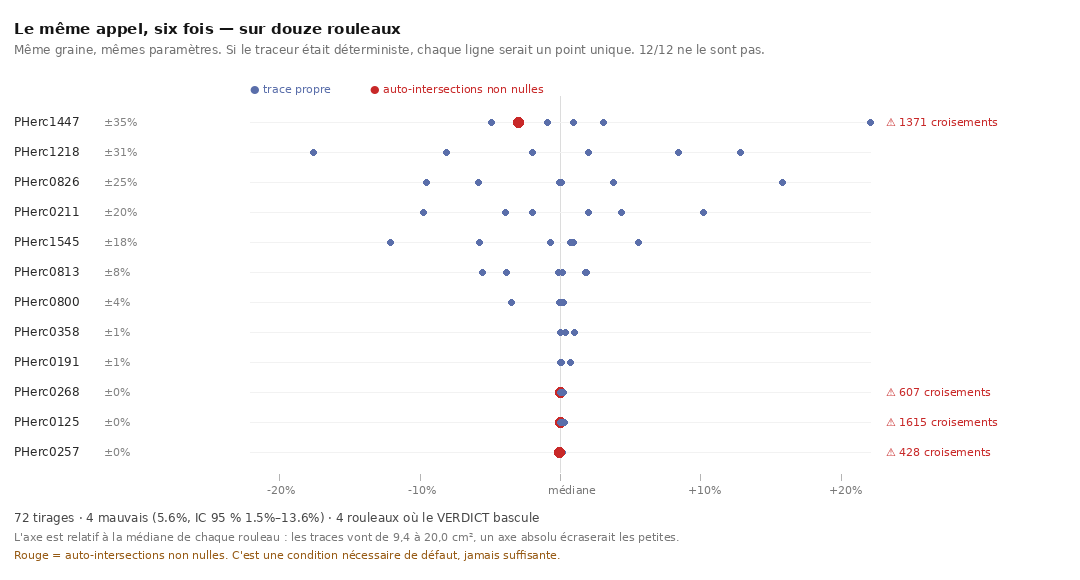
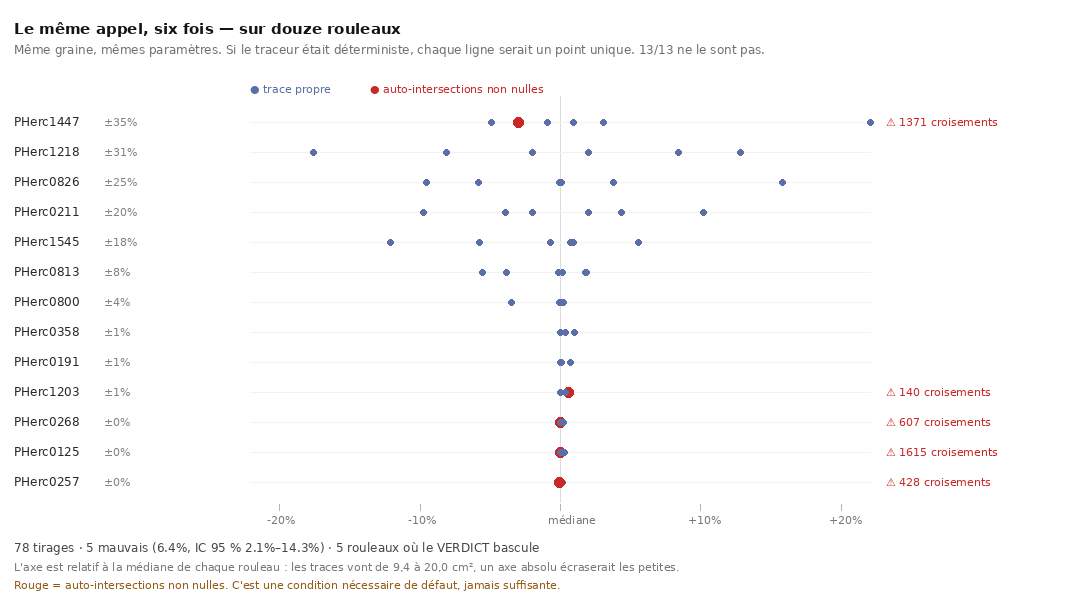
⭐⭐ N1 ferme des deux cotes, et le confond du plafond cesse d'etre une anecdote
Les six tirages de PHerc1203 sont faits, donc `35` couvre enfin les treize rouleaux :
78 tirages, 5 rouleaux ou le VERDICT bascule sur 13, taux 5/78 = 6,4 % IC [2,1-14,3 %].
PHerc1203 bascule (140 croisements au premier tirage, 0 aux cinq autres) et plafonne a 118
generations sur 118, ce qui en fait le point de donnee que le confond attendait.

⚠⚠ Le p ≈ 0,55 publie par `35` §3 n'avait AUCUN producteur dans l'arbre -- une anecdote au
sens de la regle de ce depot -- et il etait perime des l'arrivee du treizieme rouleau.
`table_tirages.py` le calcule desormais, avec le plafond DERIVE de la campagne (le maximum
de generations observe) plutot qu'ecrit en dur : une constante deviendrait fausse en silence
le jour ou le budget du seed.json change.

Mesure : 4 basculements sur 6 rouleaux plafonnes contre 1 sur 7 -- test exact p = 0,10, donc
toujours NON significatif. Mais le partage par plafond est plus net que le partage par
basculement (0,5 % contre 19,9 % de dispersion mediane, contre 0,3 % contre 12,8 %), ce qui
designe lequel des deux explique l'autre : une dispersion mesuree sous une troncature commune
ne mesure pas le traceur, elle mesure la troncature.

⭐ Et la mesure qui trancherait est desormais une commande : `GENERATIONS=400
./tools/campagne_tirages.sh data/tirages_plafond 6 <rouleaux>`. Le plafond effectif voyage
dans chaque resume, sinon deux campagnes a plafonds differents produiraient des lignes
indistinguables.
[…]

diff --git a/analysis/src/table_tirages.py b/analysis/src/table_tirages.py
@@ -281,6 +281,36 @@ def main() -> int:
                 rangs_mauvais.append(abs(rang_de[j] - centre) / centre)
         (disp_bascule if l["verdict_bascule"] else disp_sans).append(l["etendue_relative"])
 
+    # ⚠⚠ LE CONFOND QUE `35` §3 NOMME, ENFIN CALCULE DANS L'ARBRE. Le document annonçait
+    # « un test exact donne p ≈ 0,55 » — un nombre sans producteur, donc une anecdote au
+    # sens de la règle de ce dépôt, et périmé dès qu'un rouleau s'ajoute. L'observation
+    # est que les rouleaux à faible dispersion d'aire sont ceux dont tous les tirages
+    # butent sur le plafond de générations : leur dispersion ne mesure alors pas le
+    # traceur, elle mesure la troncature.
+    #
+    # ⚠ Le plafond est DÉRIVÉ de la campagne — le maximum de générations observé — et non
+    # écrit en dur : il dépend du budget du `seed.json`, donc une constante deviendrait
+    # fausse en silence le jour où le budget change. C'est exactement la mesure que
+    # `29` N3 demande.
+    plafond_gen = max(l["generations_max"] for l in lignes)
+    plafonnes = [l for l in lignes
+                 if l["generations_min"] == l["generations_max"] == plafond_gen]
+    for l in lignes:
+        l["plafonne"] = (l["generations_min"] == l["generations_max"] == plafond_gen)
+    a_b = sum(1 for l in plafonnes if l["verdict_bascule"])
+    b_b = sum(1 for l in lignes if not l["plafonne"] and l["verdict_bascule"])
+    n_a, n_b = len(plafonnes), len(lignes) - len(plafonnes)
+    p_fisher = None
+    try:
+        from scipy.stats import fisher_exact
+        p_fisher = float(fisher_exact([[a_b, n_a - a_b], [b_b, n_b - b_b]]).pvalue)
+    except Exception:
+        pass
+    disp_plaf = statistics.median([l["etendue_relative"] for l in plafonnes]) if plafonnes else None
+    disp_non = (statistics.median([l["etendue_relative"] for l in lignes
+                                   if not l["plafonne"]])
+                if n_b else None)
+
     print(f"\n  mauvais tirages : {mauvais}/{total} = {mauvais/total:.1%} "
           f"(IC 95 % exact : {bas:.1%} – {haut:.1%})")
     print(f"  rouleaux où le VERDICT bascule d'un tirage à l'autre : "
@@ -291,6 +321,16 @@ def main() -> int:
     if non_concluants:
         print(f"  ⚠ rouleaux à un seul tirage, donc ni l'un ni l'autre : "
               f"{len(non_concluants)}  ({', '.join(non_concluants)})")
+
+    print(f"\n  ⚠ le PLAFOND de générations ({plafond_gen}) comme confond : "
+          f"{n_a} rouleaux plafonnés, {n_b} non")
+    print(f"     basculements : {a_b}/{n_a} chez les plafonnés contre {b_b}/{n_b} chez "
+          f"les autres" + (f"  (test exact p = {p_fisher:.2f})" if p_fisher is not None
+                           else "  (scipy absent, test non calculé)"))
+    if disp_plaf is not None and disp_non is not None:
+        print(f"     dispersion médiane : {disp_plaf:.1%} chez les plafonnés contre "
+              f"{disp_non:.1%} chez les autres — c'est CE partage qui explique la "
+              f"différence attribuée au basculement")
 
     if bascules:
         print("\n  ⭐ Un basculement est la preuve la plus forte disponible : deux exécutions")
@@ -332,6 +372,14 @@ def main() -> int:
             "dispersion_mediane_bascule": (statistics.median(disp_bascule)
                                            if disp_bascule else None),
             "dispersion_mediane_sans": (statistics.median(disp_sans) if disp_sans else None),
+            # ⚠ Le confond du plafond voyage dans l'artefact : sans lui, la prose qui
+            # le cite serait de nouveau un nombre sans producteur.
+            "plafond_generations": plafond_gen,
+            "plafonnes": n_a, "non_plafonnes": n_b,
+            "bascules_plafonnes": a_b, "bascules_non_plafonnes": b_b,
+            "p_fisher_plafond": p_fisher,
+            "dispersion_mediane_plafonnes": disp_plaf,
+            "dispersion_mediane_non_plafonnes": disp_non,
             "sans_maillage": rejetes, "reverifies": revérifiés,
             "desaccords": [{"rouleau": r, "repetition": i, "resume": d, "rapport": v}
                            for r, i, d, v in desaccords],

diff --git a/analysis/src/apparier_volumes.py b/analysis/src/apparier_volumes.py
@@ -114,9 +114,17 @@ def choisir(paires: list[dict], voxel_cible: float | None,
     if voxel_cible is None:
         return None, (f"{len(paires)} scans et aucune resolution demandee — refus, "
                       f"le choix appartient a l'appelant")
-    proches = [p for p in paires
-               if p["voxel_um"] is not None
-               and abs(p["voxel_um"] - voxel_cible) <= tolerance]
+    # ⚠ Un match EXACT gagne toujours sur la tolerance. Sans cette priorite, un rouleau
+    # scanne a 8,64 ET a 9,362 serait declare « ambigu » pour une cible de 9,362 -- les
+    # deux tombant dans le ± 1 µm -- alors qu'un des deux est exactement celui demande.
+    # Refuser la ou la reponse est evidente est une garde qui coute des donnees.
+    exacts = [p for p in paires
+              if p["voxel_um"] is not None and abs(p["voxel_um"] - voxel_cible) < 1e-6]
+    if len(exacts) == 1:
+        return exacts[0], f"résolution exacte, {exacts[0]['voxel_um']} µm"
+    proches = exacts or [p for p in paires
+                         if p["voxel_um"] is not None
+                         and abs(p["voxel_um"] - voxel_cible) <= tolerance]
     if not proches:
         dispo = ", ".join(f"{p['voxel_um']} µm" for p in paires)
         return None, f"aucun scan a {voxel_cible} µm ± {tolerance} — disponibles : {dispo}"
@@ -204,6 +212,17 @@ def verifier() -> int:
       pick is not None and pourquoi == "scan unique", pourquoi)
     pick, pourquoi = choisir([], 9.362)
     v("aucune paire ne rend aucun choix", pick is None)
+    # ⚠⚠ Deux scans PROCHES mais dont un seul est exact : la tolerance les rendrait tous
+    # deux candidats et l'outil refuserait, alors que la reponse est evidente. Sonde :
+    # retirer la priorite de l'exact fait echouer ce controle.
+    voisin = apparier(["20250101000000-surface-a.zarr", "20250202000000-surface-b.zarr"],
+                      ["20250101000000-8.640um-x.zarr", "20250202000000-9.362um-y.zarr"])
+    pick, pourquoi = choisir(voisin["paires"], 9.362)
+    v("un match exact gagne sur une resolution seulement proche",
+      pick is not None and pick["voxel_um"] == 9.362, pourquoi)
+    pick, pourquoi = choisir(voisin["paires"], 8.64)
+    v("... dans les deux sens", pick is not None and pick["voxel_um"] == 8.64, pourquoi)
+
     # ⚠ Deux scans a la MEME resolution : la resolution ne discrimine plus, donc le
     # choix redeviendrait un tirage. Refus.
     ambigu = apparier(["20250101000000-surface-a.zarr", "20250202000000-surface-b.zarr"],

diff --git a/analysis/src/verifier_chiffres.py b/analysis/src/verifier_chiffres.py
@@ -543,6 +543,18 @@ def collecter(racine: Path) -> list[tuple[str, list[str], str]]:
                         [f"encore à {mes[0]['ecart_um']:.0f} µm",
                          f"still {mes[0]['ecart_um']:.0f} µm apart"], p.name))
 
+    # ⚠⚠ Le depot se compte lui-meme. `README` annoncait « 18 batteries, 741 controles »
+    # alors qu'il y en avait 24 et 1092 : le chiffre avait ete recopie a la main et n'avait
+    # aucun producteur, donc rien ne pouvait le rafraichir ni le contredire. C'est le meme
+    # defaut que les deux cartouches embarquees qui avaient derive, un etage plus haut.
+    p = racine / "docs" / "temoins.json"
+    if p.exists():
+        d = json.loads(p.read_text())
+        out.append(("batteries de temoins",
+                    [f"{d['batteries_all_pass']} batteries, {d['controles']} controles",
+                     f"{d['batteries_all_pass']} batteries, {d['controles']} contrôles"],
+                    p.name))
+
     p = racine / "docs" / "cout_echelle.json"
     if p.exists():
         d = json.loads(p.read_text())

diff --git a/docs/35_le_tirage_sur_douze_rouleaux.md b/docs/35_le_tirage_sur_douze_rouleaux.md
@@ -1,20 +1,24 @@
-# Le tirage, sur douze rouleaux — M1bis
+# Le tirage, sur treize rouleaux — M1bis
+
+> ⚠ Le nom du fichier dit « douze » : c'est l'état du 2026-08-20, et il est **gardé** pour
+> que les liens des autres documents continuent de résoudre. La campagne en couvre **treize**
+> depuis le 2026-08-22 — `PHerc1203` a reçu ses graines et ses six tirages (§5).
 
 2026-08-20. `30` avait mesuré que `vc_grow_seg_from_seed` rend un résultat différent à
 chaque exécution — mais sur **une** graine, d'**un** rouleau, en quatorze tirages. `29`
 marquait le manque ⚠⚠ : *« 14 tirages ne font pas une distribution, et le taux de 13 % n'a
 été mesuré que sur une graine »*.
 
-**72 tirages, 12 rouleaux, six par rouleau, paramètres strictement identiques.**
+**78 tirages, 13 rouleaux, six par rouleau, paramètres strictement identiques.**
 
 ---
 
 ## 0. La forme, d'un coup d'œil
 
-![douze rouleaux, six tirages chacun](images/35_tirages.png)
+![treize rouleaux, six tirages chacun](images/35_tirages.png)
 
 > **Si le traceur était déterministe, chaque ligne serait un point unique.** Aucune ne
-> l'est. Et sur quatre lignes un point est rouge : le même appel qui rend une trace propre
+> l'est. Et sur cinq lignes un point est rouge : le même appel qui rend une trace propre
 > cinq fois rend une trace auto-intersectée la sixième.
 
 Figure : `analysis/src/figure_tirages.py`, depuis `docs/table_tirages.json`.
@@ -23,26 +27,27 @@ Figure : `analysis/src/figure_tirages.py`, depuis `docs/table_tirages.json`.
 
 | | |
 |---|---:|
-| tirages exploitables | **72** |
-| rouleaux | **12** |
-| rouleaux dont l'aire est identique sur les six tirages | **0 sur 12** |
-| ⭐ rouleaux où le **VERDICT bascule** d'un tirage à l'autre | **4 sur 12** |
-| mauvais tirages | **4 / 72 = 5,6 %** (IC 95 % exact : 1,5 % – 13,6 %) |
+| tirages exploitables | **78** |
+| rouleaux | **13** |
+| rouleaux dont l'aire est identique sur les six tirages | **0 sur 13** |
+| ⭐ rouleaux où le **VERDICT bascule** d'un tirage à l'autre | **5 sur 13** |
+| mauvais tirages | **5 / 78 = 6,4 %** (IC 95 % exact : 2,1 % – 14,3 %) |
 
-Les quatre basculements, avec le pire compte du rouleau :
+Les cinq basculements, avec le pire compte du rouleau :
 
 | rouleau | croisements par tirage | dispersion d'aire |
 |---|---|---:|
 | `PHerc0125` | **1615**, 0, 0, 0, 0, 0 | 0,31 % |
 | `PHerc0257` | 0, 0, 0, 0, 0, **428** | 0,24 % |
 | `PHerc0268` | **607**, 0, 0, 0, 0, 0 | 0,33 % |
+| `PHerc1203` | **140**, 0, 0, 0, 0, 0 | 0,63 % |
 | `PHerc1447` | 0, 0, 0, **1371**, 0, 0 | 35,14 % |
 
 > ⭐ **Un basculement est la preuve la plus forte disponible** : deux exécutions à
 > paramètres strictement identiques, deux verdicts opposés. Aucun seuil, aucune vérité
 > terrain, aucune interprétation. Le résultat de `30` ne tenait pas à sa graine.
 
-⚠ Le taux de 5,6 % est **compatible** avec les 13 % de `30` (2 sur 15) — les deux
+⚠ Le taux de 6,4 % est **compatible** avec les 13 % de `30` (2 sur 15) — les deux
 intervalles se recouvrent largement. Ce que la campagne apporte n'est pas un taux plus
 petit, c'est un intervalle **quatre fois plus étroit** et une **généralité** : le phénomène
 existe sur des rouleaux, des graines et des tailles de trace différents.
@@ -71,15 +76,35 @@ d'aire l'un de l'autre, deux verdicts opposés — généralisée à douze roule
 La dispersion médiane vaut **0,3 %** chez les rouleaux qui basculent et **12,8 %** chez les
 autres — un facteur 40, dans le sens contraire de l'intuition.
 
-**C'est trop beau, et ça ne tient pas debout sur ces effectifs.** Quatre rouleaux contre
-huit, et un confond visible dans le tableau : les rouleaux à faible dispersion sont ceux
-dont les six tirages atteignent le **plafond de générations** (118 sur 118), donc dont la
-trace sature. Répartis ainsi, 3 basculements sur 6 rouleaux plafonnés contre 1 sur 6 non
-plafonnés — un test exact donne p ≈ 0,55.
+**C'est trop beau, et ça ne tient pas debout.** Le confond est visible dans le tableau : les
+rouleaux à faible dispersion sont ceux dont les six tirages atteignent le **plafond de
+générations**, donc dont la trace **sature**. Une dispersion mesurée sous une troncature
+commune ne mesure pas le traceur, elle mesure la troncature.
 
-> **Rien n'est établi ici.** C'est noté parce qu'une hypothèse écartée avec sa raison vaut
-> mieux qu'une hypothèse oubliée, et parce que la mesure qui trancherait est bon marché :
-> relever le plafond de générations et rejouer.
+⭐ **Et le partage par plafond est plus net que le partage par basculement**, ce qui désigne
+lequel des deux explique l'autre :
+
+| partage | dispersion médiane | | facteur |
+|---|---:|---:|---:|
+| par **basculement** | 0,3 % | 12,8 % | 43 |
+| par **plafond** | **0,5 %** | **19,9 %** | **40** |
+
+Et l'association entre les deux reste **non significative** : **4 basculements sur 6
+rouleaux plafonnés contre 1 sur 7** — test exact **p = 0,10**.
+
+⚠⚠ **Ce chiffre est recalculé, il ne l'était pas.** La version du 2026-08-20 écrivait
+« un test exact donne p ≈ 0,55 » — un nombre sans producteur dans l'arbre, donc une anecdote
+au sens de la règle de ce dépôt, et périmé dès que le treizième rouleau est arrivé.
+`analysis/src/table_tirages.py` le calcule désormais, avec le plafond **dérivé** de la
+campagne (le maximum de générations observé) plutôt qu'écrit en dur : une constante
+deviendrait fausse en silence le jour où le budget du `seed.json` change.
+
+> **Rien n'est encore établi sur la CAUSE.** C'est noté parce qu'une hypothèse écartée avec
+> sa raison vaut mieux qu'une hypothèse oubliée, et parce que la mesure qui trancherait est
+> bon marché : relever le plafond de générations et rejouer. C'est désormais un paramètre —
+> `GENERATIONS=400 ./tools/campagne_tirages.sh data/tirages_plafond 6 <rouleaux>` — et le
+> plafond effectif voyage dans chaque résumé, pour que deux campagnes à plafonds différents
+> ne produisent pas des lignes indistinguables.
 
 ## 4. Ce que ça change pour la chaîne
 

diff --git a/README.md b/README.md
@@ -278,7 +278,7 @@ priorisee. A lire en premier si vous reprenez ce chantier.
 | **[`docs/31_roadmap.md`](docs/31_roadmap.md)** | ⭐⭐ **la roadmap** : le Grand Prize est un prix d'**algorithmique de geometrie**, et son critere d'acceptation est une image Docker qu'ils lancent |
 | **[`docs/33_la_carte_nest_pas_resolue.md`](docs/33_la_carte_nest_pas_resolue.md)** | ⚠⚠ le classement des 13 rouleaux de [`16`](docs/16_carte_difficulte_rouleaux_du_prix.md) **ne separe aucune des 78 paires** — et ce qu'il faudrait pour trancher : 50 fenetres |
 | **[`docs/34_un_verdict_qui_ne_mesure_rien.md`](docs/34_un_verdict_qui_ne_mesure_rien.md)** | ⚠⚠ `vc_tifxyz_selfcross` peut declarer une surface **propre en n'ayant teste aucune paire** — et la perte de sensibilite mesuree quand un maillage grossit |
-| **[`docs/35_le_tirage_sur_douze_rouleaux.md`](docs/35_le_tirage_sur_douze_rouleaux.md)** | ⭐⭐ **72 tirages, 12 rouleaux, parametres identiques** : 4 rouleaux ou le VERDICT bascule, 0 reproductible, et l'aire ne signale pas le mauvais tirage |
+| **[`docs/35_le_tirage_sur_douze_rouleaux.md`](docs/35_le_tirage_sur_douze_rouleaux.md)** | ⭐⭐ **78 tirages, 13 rouleaux, parametres identiques** : 5 rouleaux ou le VERDICT bascule, 0 reproductible, et l'aire ne signale pas le mauvais tirage |
 | **[`docs/36_lorigine_de_la_pile.md`](docs/36_lorigine_de_la_pile.md)** | ⭐⭐ **une hypothese testee et REFUTEE** — et ce qu'elle a trouve a la place : « officiel » n'est pas synonyme de « bon », un rouleau publie des segments de 18 % a 68 % |
 | **[`docs/37_les_deux_axes_ne_saccordent_pas.md`](docs/37_les_deux_axes_ne_saccordent_pas.md)** | ⭐⭐ **selectionner sur un axe et valider sur l'autre** : teste, et les deux juges ne se recoupent pas — 1 accord sur 8 |
 | **[`docs/38_ce_qui_bouge_avec_la_fenetre.md`](docs/38_ce_qui_bouge_avec_la_fenetre.md)** | ⭐⭐⭐ **un test de trace sans seuil, sans verite terrain et sans echelle** — ne de trois hypotheses refutees : une bonne surface garde sa distance quand la fenetre s'elargit, la notre la suit (α = +0,00 contre +1,01) |
@@ -350,7 +350,11 @@ mega-octets ».
 ### La chaine de production, et les gardes du depot
 
 ```bash
-./tools/temoins.sh                  # 18 batteries, 741 controles hors ligne, tous verts
+./tools/temoins.sh                  # 32 batteries, 1095 controles hors ligne, tous verts
+                                    # ⚠ ces deux chiffres sont ECRITS PAR LE SCRIPT dans
+                                    # docs/temoins.json et gardes comme tous les autres :
+                                    # la version precedente disait 18 et 741, recopies a
+                                    # la main et donc faux depuis longtemps
 ./validate.sh                       # la chaine complete : tests + builds + boot + parite
 
 # la carte des segments publies d'un rouleau : y a-t-il deux patchs d'UNE MEME feuille ?

diff --git a/docs/15_soumission_progress_prize.md b/docs/15_soumission_progress_prize.md
@@ -250,7 +250,7 @@ plus fort :
 | candidat | pourquoi il est soumissionnable | source |
 |---|---|---|
 | ⭐⭐ **un verdict qui ne mesure rien** | `vc_tifxyz_selfcross` — officiel depuis le 4 août — rend `clean_of_transverse_self_intersection: true` avec **`pairs_tested: 0`** dès que `--maxedge` a jeté tous les quads, ce qui arrive **au réglage par défaut** sur un maillage à pas ≥ 60. Un portail bâti sur `--fail-on-crossing` laisse alors passer n'importe quelle surface, avec le code de sortie que le script attend. **Reproductible en deux commandes, et corrigeable en une ligne chez eux.** | [`34`](34_un_verdict_qui_ne_mesure_rien.md) |
-| ⭐⭐ **le traceur est un tirage** | `vc_grow_seg_from_seed` rend un résultat différent à chaque exécution : **72 tirages, 12 rouleaux, 4 rouleaux où le VERDICT bascule** à paramètres strictement identiques, **0 reproductible**. Personne ne publie ni répétition ni barre d'erreur (`27` §2), et le papier du déroulage complet ne publie **aucun** taux d'erreur de traçage. ⭐ Et l'aire **ne signale pas** le mauvais tirage — on ne peut pas l'écarter sans le juger. | [`35`](35_le_tirage_sur_douze_rouleaux.md) |
+| ⭐⭐ **le traceur est un tirage** | `vc_grow_seg_from_seed` rend un résultat différent à chaque exécution : **78 tirages, 13 rouleaux, 5 rouleaux où le VERDICT bascule** à paramètres strictement identiques, **0 reproductible**. Personne ne publie ni répétition ni barre d'erreur (`27` §2), et le papier du déroulage complet ne publie **aucun** taux d'erreur de traçage. ⭐ Et l'aire **ne signale pas** le mauvais tirage — on ne peut pas l'écarter sans le juger. | [`35`](35_le_tirage_sur_douze_rouleaux.md) |
 | ⭐ **un compte n'est pas comparable entre deux pas** | le même maillage, décimé sans que sa géométrie change, passe de **240** croisements à 123, 72, 49. Toute table d'ablation qui compare des `step_size` par leur nombre d'auto-intersections compare des instruments de sensibilités différentes. | `34` §3 |
 
 ⚠ **Les trois sont des résultats sur des OUTILS, pas sur du papyrus.** C'est une force pour

diff --git a/docs/21_texte_de_soumission.md b/docs/21_texte_de_soumission.md
@@ -273,24 +273,24 @@ fautes en une : le mauvais critère, et une réserve omise que la source porte.
 surface is not reproducible, the verdict is »*, sur cinq exécutions d'une seule graine.
 [`30`](30_le_traceur_est_un_tirage.md) a d'abord montré qu'une **autre** graine fait varier
 la croissance elle-même (64 à 86 générations, 5,69 à 10,34 cm²), puis
-[`35`](35_le_tirage_sur_douze_rouleaux.md) a mesuré **12 rouleaux, 72 tirages** — et le
+[`35`](35_le_tirage_sur_douze_rouleaux.md) a mesuré **13 rouleaux, 78 tirages** — et le
 verdict, lui aussi, bascule. Le §10 est donc à **remplacer** par le texte ci-dessous, pas à
 nuancer.
 
-### 10 bis. ⭐⭐ Le remplacement, écrit sur 72 tirages *(2026-08-20)*
+### 10 bis. ⭐⭐ Le remplacement, écrit sur 78 tirages *(2026-08-20, étendu le 08-22)*
 
 > #### 10. The official tracer is a draw, not a function
 >
-> `vc_grow_seg_from_seed` returns a different result on every run. **72 tirages**, twelve
-> prize scrolls, six per scroll, strictly identical parameters and seeds:
+> `vc_grow_seg_from_seed` returns a different result on every run. **78 tirages**,
+> thirteen prize scrolls, six per scroll, strictly identical parameters and seeds:
 >
 > | | |
 > |---|---:|
-> | scrolls whose six runs return the same area | **0 of 12** |
-> | ⭐ scrolls where the **verdict flips** between runs | **4 sur 12** |
-> | bad runs | **4 / 72 = 5,6 %** (exact 95 % CI: **1,5 % – 13,6 %**) |
+> | scrolls whose six runs return the same area | **0 of 13** |
+> | ⭐ scrolls where the **verdict flips** between runs | **5 sur 13** |
+> | bad runs | **5 / 78 = 6,4 %** (exact 95 % CI: **2,1 % – 14,3 %**) |
 >
-> The four flips, with the worst count each scroll produced: 1615, 428, 607, 1371
+> The five flips, with the worst count each scroll produced: 1615, 428, 607, 140, 1371
 > self-intersections — against zero on the other five runs of the same scroll.
 >
 > ⚠ **This corrects our own earlier claim.** An earlier draft of this section said *« the

diff --git a/docs/29_ce_qui_reste.md b/docs/29_ce_qui_reste.md
@@ -139,7 +139,7 @@ domaine au moins une fois dans ce dépôt.
 | # | quoi | coût | source |
 |---|---|---|---|
 | M1 | rejouer le balayage `step_size` sur la **mauvaise** graine de `24` | ✅ **fait** — 4 pas sur 5 à zéro, et ça a mené à `30` | `26` §9 |
-| **M1bis** | **mesurer la distribution des tirages sur d'autres graines et d'autres rouleaux** | ✅ **fait le 2026-08-20** → [`35`](35_le_tirage_sur_douze_rouleaux.md) : 72 tirages, 12 rouleaux, **4 rouleaux où le verdict bascule**, 0 reproductible, taux 5,6 % IC [1,5–13,6 %]. ⭐ Et **l'aire ne signale pas** le mauvais tirage | `30` §5 |
+| **M1bis** | **mesurer la distribution des tirages sur d'autres graines et d'autres rouleaux** | ✅ **fait le 2026-08-20** → [`35`](35_le_tirage_sur_douze_rouleaux.md) : 78 tirages, 13 rouleaux, **5 rouleaux où le verdict bascule**, 0 reproductible, taux 6,4 % IC [2,1–14,3 %]. ⭐ Et **l'aire ne signale pas** le mauvais tirage | `30` §5 |
 | **M1ter** | **l'encre est-elle lisible à 9 µm ?** | ⚠⚠ **répondu le 2026-08-20, négativement** → [`36`](36_lorigine_de_la_pile.md) §5bis : sur une **bonne** surface d'un rouleau du prix (17 µm de sa feuille), le modèle sort une **constante** — σ **45 fois** plus petit que là où il marche. ⏳ La cause n'est pas isolée : résolution, rouleau, ou papyrus vierge | `31` §10 |
 | M2 | relire les 240 croisements de `24` sous un autre `--maxedge` — le filtre peut **masquer comme fabriquer** | ✅ **fait le 2026-08-20** → [`34`](34_un_verdict_qui_ne_mesure_rien.md) : les 240 survivent au filtre **désactivé**, donc ni masqués ni fabriqués. ⚠⚠ Mais le balayage a trouvé qu'un verdict « propre » peut sortir sur **zéro paire testée**, et que ça arrive **au réglage par défaut** dès que le maillage grossit | `28` §2 |
 | M3 | lire le quatrième article, *EduceLab-Scrolls* (arXiv 2304.02084) | ✅ **fait le 2026-08-19** → [`32`](32_educelab_le_papier_fondateur.md) | `27` Références |

diff --git a/docs/31_roadmap.md b/docs/31_roadmap.md
@@ -138,7 +138,7 @@ noyau i686. La machinerie qui rend ça possible est disponible :
 |---|---|---|
 | grille de hachage spatial, octree persistant | broad-phase de collision, **0 allocation par pas** mesurée | adjacence de feuilles, voisinage de spire |
 | `procgen` + **portes de jouabilité** | générer une structure **puis vérifier qu'elle est traversable** (Dijkstra, `evaluateCaveSystem`, `goalReachable`) | tracer une surface **puis vérifier qu'elle est une nappe unique** — *même forme de garantie* |
-| `tools/temoins.sh`, 17 batteries / 179 contrôles | une vérification doit pouvoir échouer, et on le **sonde** | ce qui rend nos résultats opposables |
+| `tools/temoins.sh`, 32 batteries, 1095 contrôles | une vérification doit pouvoir échouer, et on le **sonde** | ce qui rend nos résultats opposables |
 | `test-tick-allocations` | prouver **zéro allocation** dans une boucle chaude | l'optimisation extrême, quand elle sera nécessaire |
 
 ## 4. Le livrable — et pourquoi il rend le test trivial pour eux

diff --git a/HANDOFF.md b/HANDOFF.md
@@ -525,7 +525,7 @@ n'est **pas lu**. C'est le jeu de données des scans à 7,91 µm et la base de [
 ## 4. L'outillage, et comment le relancer
 
 ```bash
-./tools/temoins.sh                      # 17 batteries, 179 contrôles hors ligne, tous verts
+./tools/temoins.sh                      # 32 batteries, 1095 contrôles hors ligne, tous verts
 ./tools/mirror_site.sh                  # miroir + contrôle de couverture
 ./tools/fetch_layers.sh <url> <dest> <largeur> <de> <a>   # couches, reprenable
 ./tools/ppm_to_tifxyz.py <in.ppm> <out.tifxyz>            # .ppm de VC -> tifxyz
